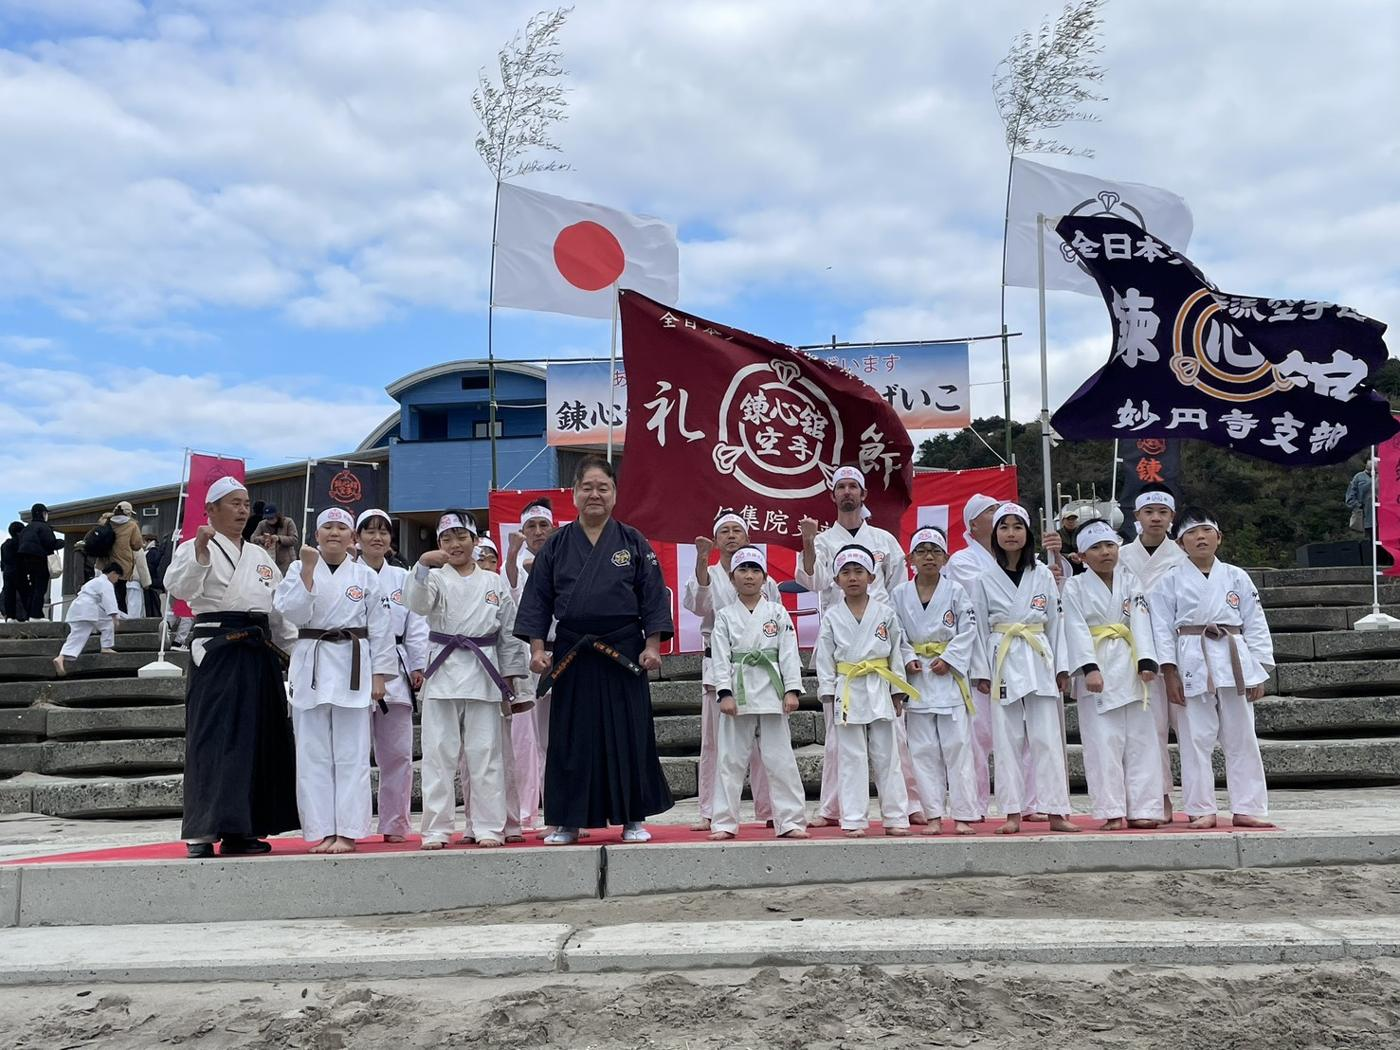
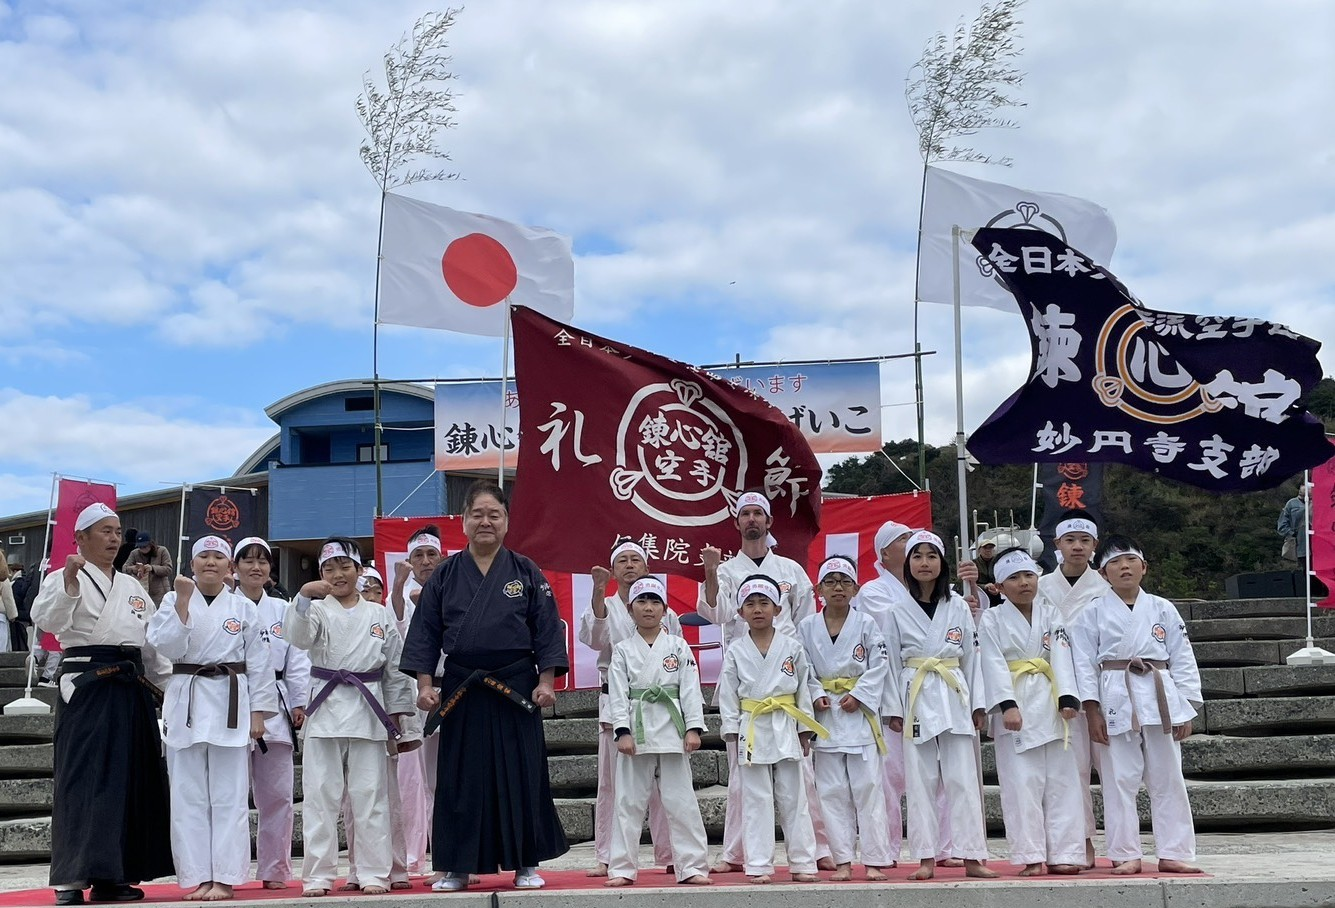
Restore beach opener; cropped festival photo for the soke section, shown uncropped
Claude-Session: https://claude.ai/code/session_01UKT9cRBq2MNrJkEXfPuNYV

diff --git a/index.html b/index.html
@@ -87,7 +87,7 @@ nav a[aria-current="page"]{color:var(--maroon);border-bottom-color:var(--maroon)
 .banner .big{font-size:clamp(2.6rem,6vw,4.4rem);font-weight:800;letter-spacing:.12em;line-height:1}
 .banner .motto{font-size:.95rem;letter-spacing:.2em;line-height:1.6;opacity:.92}
 .hero-main{display:flex;flex-direction:column;gap:20px;min-width:0}
-.hero-photo{aspect-ratio:1335/908;height:auto;max-width:100%;width:100%;object-fit:cover;border-radius:2px;display:block;object-position:50% 50%}
+.hero-photo{aspect-ratio:1400/1029;height:auto;max-width:100%;width:100%;object-fit:cover;border-radius:2px;display:block;object-position:50% 50%}
 .youth-strip{display:grid;grid-template-columns:repeat(3,1fr);gap:8px;margin-top:-12px}
 .youth-strip img{width:100%;aspect-ratio:1/1;object-fit:cover;border-radius:2px;display:block}
 .hero h1{font-size:clamp(1.7rem,4.2vw,2.8rem)}
@@ -111,7 +111,7 @@ section,#top{scroll-margin-top:96px}
 .facts{display:grid;grid-template-columns:auto 1fr;gap:10px 18px;font-size:.92rem;margin-top:6px}
 .facts dt{color:var(--maroon);font-weight:700;font-variant-numeric:tabular-nums}
 .facts dd{margin:0;color:var(--ink-soft)}
-.about img{width:100%;max-width:100%;aspect-ratio:3/4;object-fit:cover;border-radius:2px}
+.about img{width:100%;max-width:100%;height:auto;aspect-ratio:auto;display:block;border-radius:2px}
 .cap{font-size:.78rem;color:var(--ink-soft);margin-top:6px}
 .lineage{list-style:none;margin:4px 0 0;padding:0;display:grid;grid-template-columns:repeat(3,1fr);gap:8px}
 .lineage li{border-top:3px solid var(--gold);padding-top:8px;font-size:.75rem;color:var(--ink-soft);display:flex;flex-direction:column;min-width:0}
@@ -258,7 +258,7 @@ footer .wrap{display:flex;flex-wrap:wrap;gap:8px 24px;justify-content:space-betw
 @media (max-width:760px){
   .about{grid-template-columns:1fr;gap:28px}
   .about figure{order:-1}
-  .about img{aspect-ratio:4/3}
+
   .facts{grid-template-columns:5.5em 1fr}
 }
 @media (max-width:620px){
@@ -328,7 +328,7 @@ footer .wrap{display:flex;flex-wrap:wrap;gap:8px 24px;justify-content:space-betw
       <span class="motto">健全な個の形成より始まる</span>
     </div>
     <div class="hero-main">
-      <img class="hero-photo" src="img/beach-flags.jpg" width="1335" height="908" alt="浜辺で旗を掲げる伊集院支部の生徒と指導者">
+      <img class="hero-photo" src="img/beach-flags.jpg" width="1400" height="1029" alt="浜辺で旗を掲げる伊集院支部の生徒と指導者">
       <div class="youth-strip">
         <img src="img/certificates.jpg" alt="賞状を持つ少年部の生徒">
         <img src="img/shrine-seiza.jpg" alt="神社での奉納演武で正座する子どもたち">
